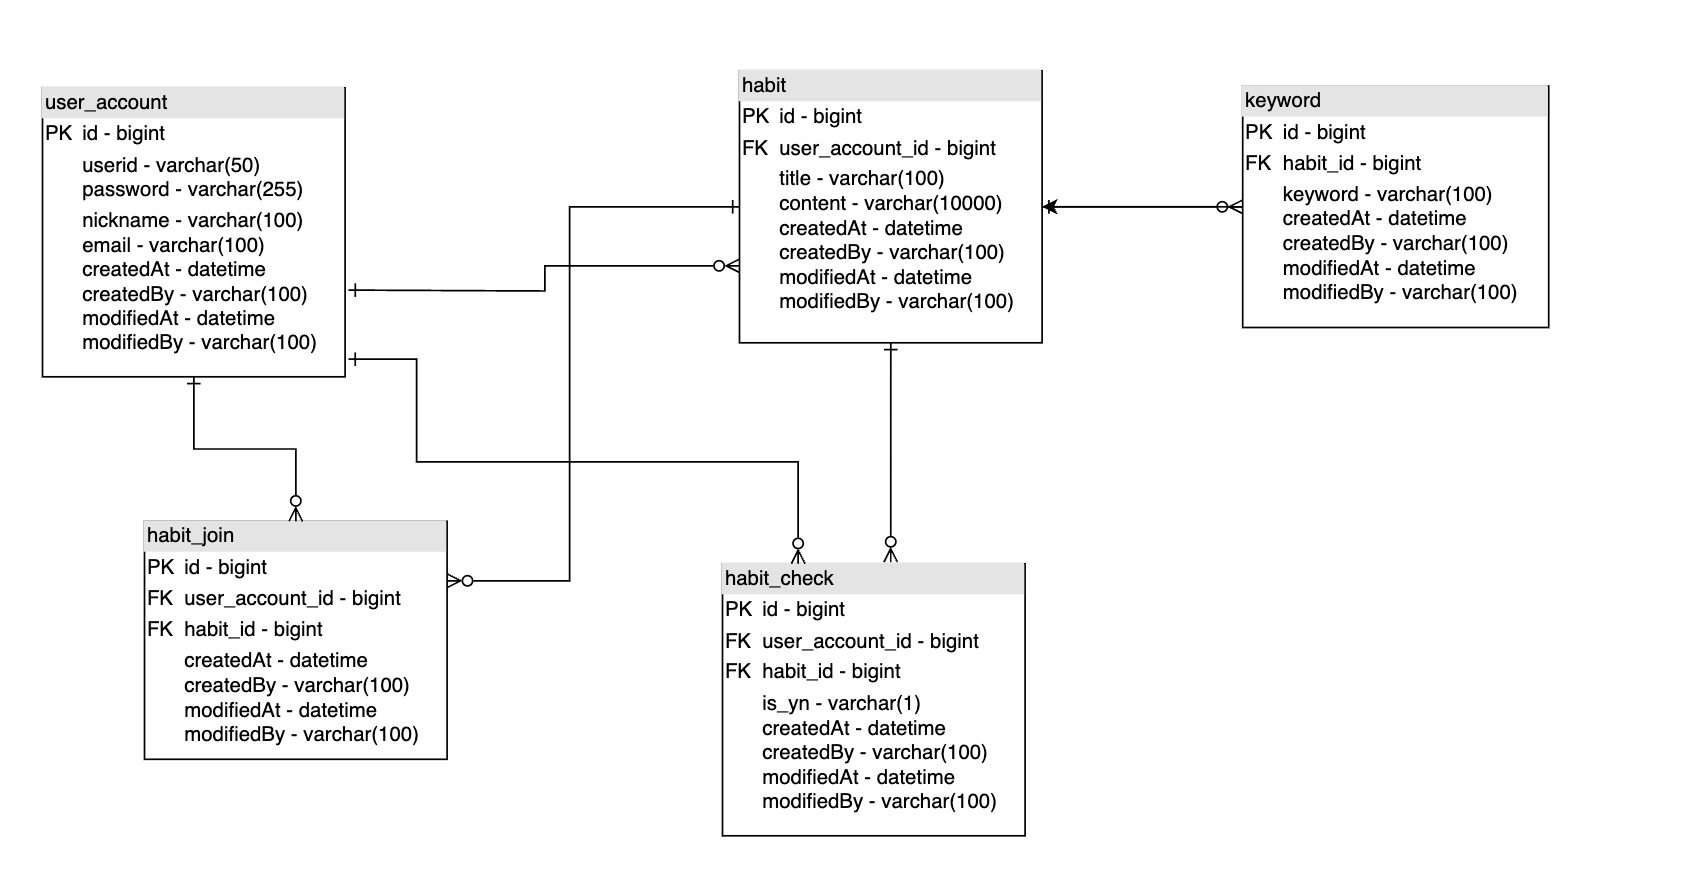
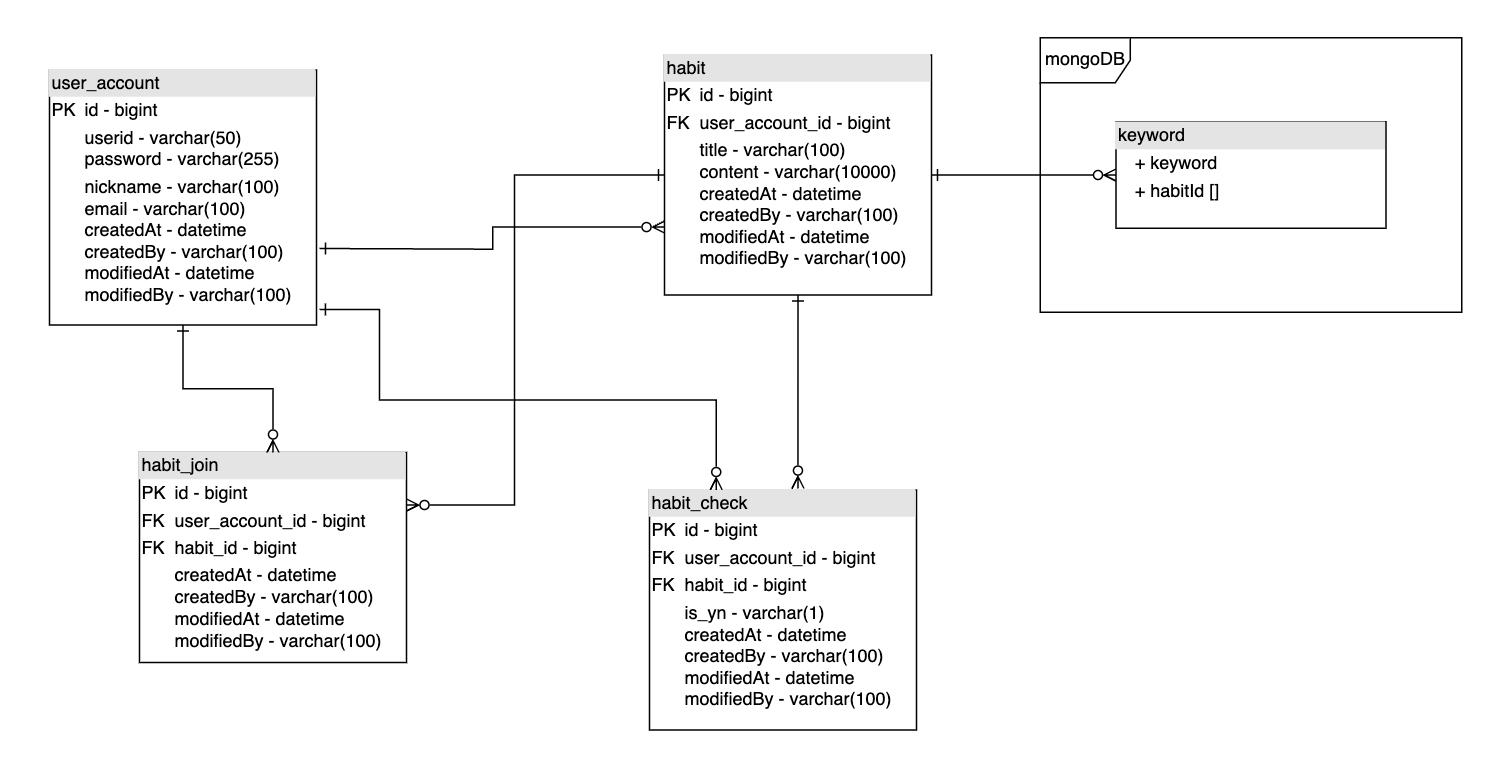
erd, readme 수정

Changed region(s): [[0.0, 0.0614, 0.9494, 0.9514], [0.735, 0.3683, 0.9188, 0.399], [0.1225, 0.491, 0.1838, 0.5217]]

diff --git a/README.md b/README.md
@@ -33,8 +33,8 @@
 
 - Spring Boot
 - Spring Data JPA
-- MySQL
 - H2 Database
+- MongoDB
 - Lombok
 - KOMORAN
 
